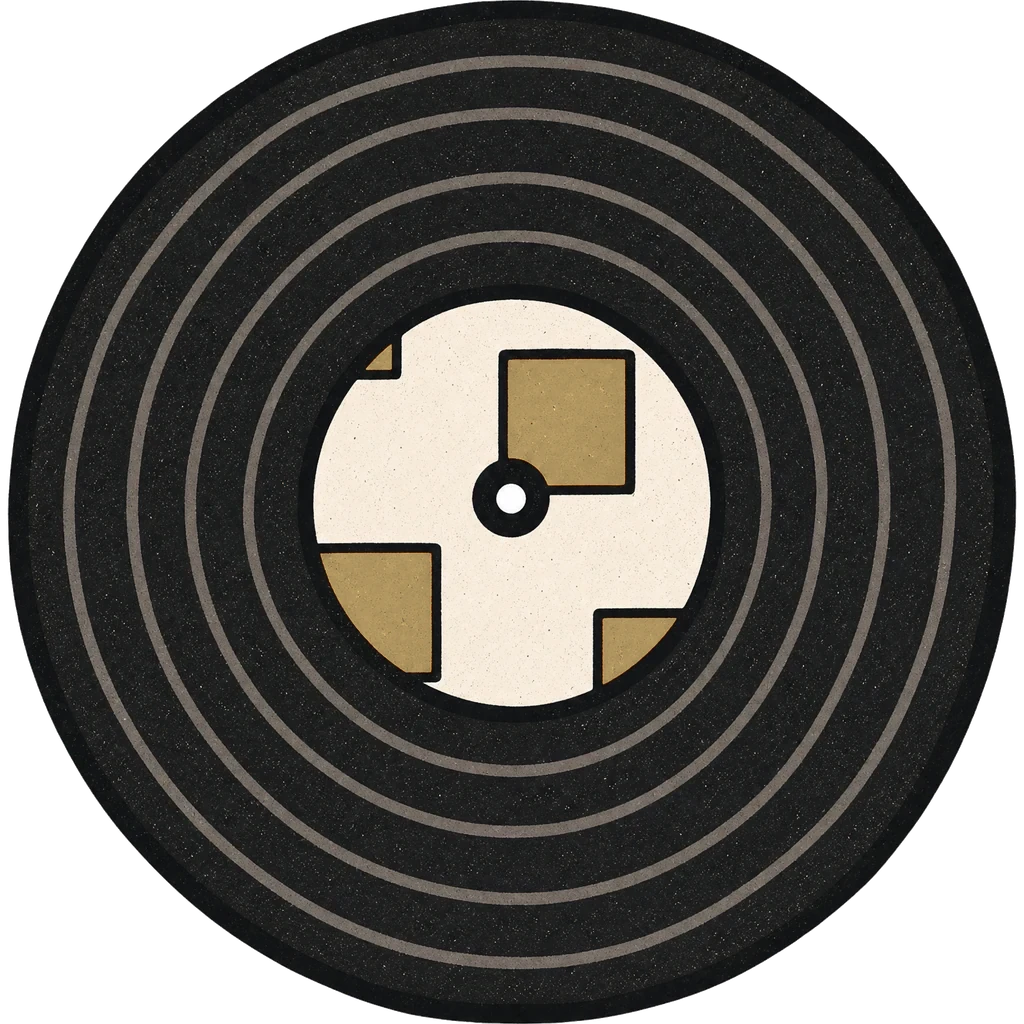
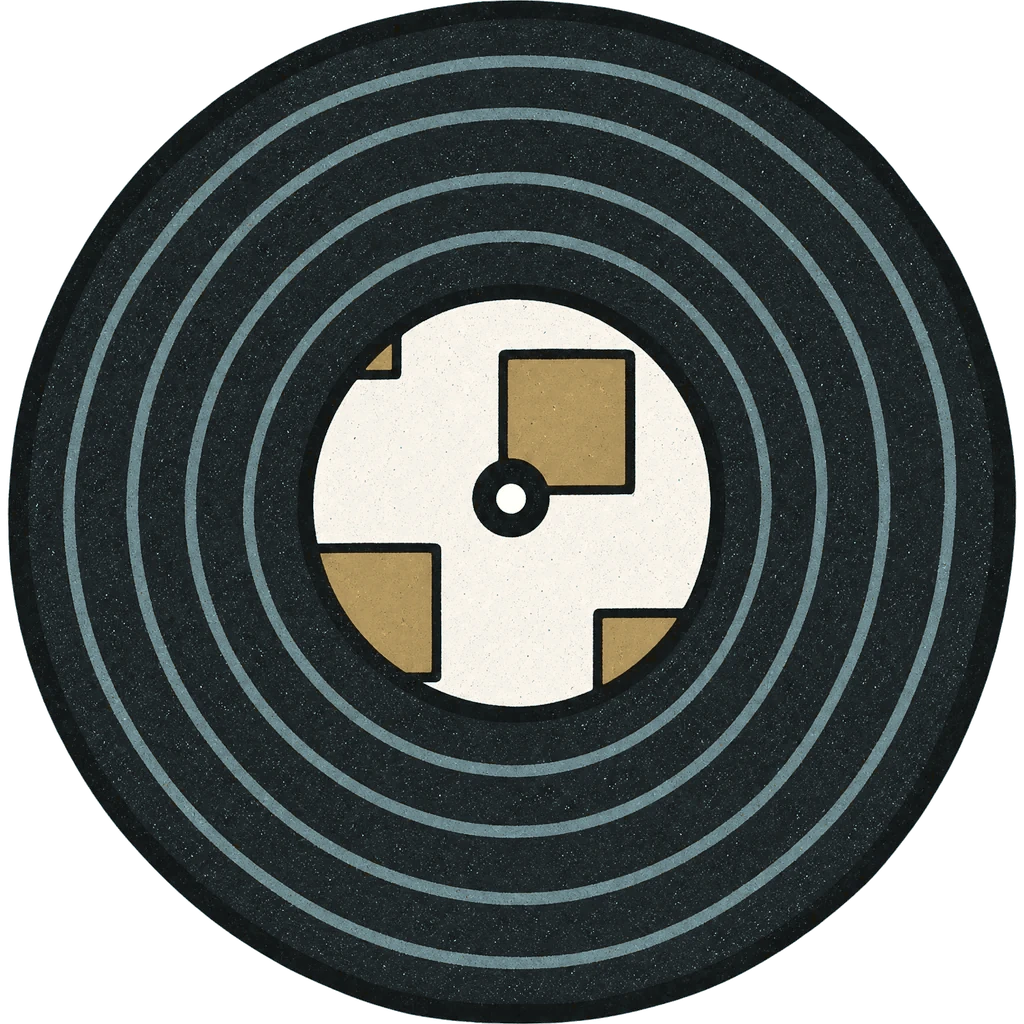
Carl's carlbahner deck on Greg's player, every drawing in Greg's colours
From carlbahner.com's deck (src/props.mjs there):
- the deck drawing without the thick shadow along its bottom and right,
  and with a thinner outline (carlbahner's deck-plinth), now in slate
- play and stop as raised keys that press down while held and spring
  back; a raised knob riding a cream progress line
- the song's title over its artist, in capitals, bigger, shrinking to
  fit, blurring in once the record has landed
- keys and words sized and moved as Carl set them, the record and arm
  moved 1% to the corner and 1.5% to the front, the whole cover on the
  label
Every drawing's colours are Greg's: the record's black and the arm's ink
his charcoal, their cream his off-white, the label and arm ochre.

Claude-Session: https://claude.ai/code/session_01EmtaLy7HU6RToKMH5GCFKA

diff --git a/site/vinyl/vinyl-player.js b/site/vinyl/vinyl-player.js
@@ -4,7 +4,9 @@
    It now differs from the kit: three fixes Carl made to the record's movement on carlbahner.com (src/nav.mjs there) are
    carried over, each marked FROM CARLBAHNER below: the old record fades away on the deck rather than flying home, one
    record moves at a time, and no tap flash or touch-held hover slide on a phone ("can you look at the mechanics from
-   the Carlbahner site repo? I fixed some quirks with the vinyl movement", Carl, 10 Nov 2026). */
+   the Carlbahner site repo? I fixed some quirks with the vinyl movement", Carl, 10 Nov 2026). And his deck from there:
+   raised keys that press down, a raised knob, the title and artist on two lines in capitals that blur in once the record
+   lands, the record and arm moved as he moved them (GREG'S DECK, at the end of the styles). */
 /**
  * Styles for <vinyl-player>.
  *
@@ -1576,6 +1578,76 @@ button > svg:not(.boil) { width: 19px; height: 19px; fill: currentColor; }
 }
 .art-boil { translate: var(--boil-dx, 0px) var(--boil-dy, 0px); }
 @media (prefers-reduced-motion: reduce) { .art-boil { translate: none; } }
+/* ===== GREG'S DECK, AS CARL BUILT HIS ON CARLBAHNER.COM =====================================================
+   "What did we do differently in my Carlbahner site deck? The 3d buttons, the placement of words. The removal of the
+   weird shadow?", then "All of it, and we need to change the colors of any illustrations" (Carl, 10 Nov 2026). From
+   carlbahner.com's src/props.mjs: GREG'S CONTROLS, ON THE DECK; THE KEYS; THE KNOB; THE DECK'S BUTTONS AND WORDS, with
+   his saved sizes and moves (DECK_UI); DECK_MOVE; and src/nav.mjs THE WORDS WAIT FOR THE RECORD. The shadow is gone
+   from the drawing itself (vinyl/art/plinth.webp, made by tools/vinyl_art.py from carlbahner's deck). Colours come
+   from the page's --pp-* (Greg's), never StudioLand's. Only the 3D room's own parts (thickness, the post) stay there. */
+
+/* the record and the arm 1% toward the corner and 1.5% toward the front, moved as one so the arm's angles hold
+   (carlbahner DECK_MOVE: x 0.01, z 0.015) */
+:host([data-art~="plinth"]) .platter { left: 14.6%; top: 14%; }
+:host([data-art~="tonearm"]) .tonearm { translate: 1% 1.5%; }
+
+/* THE KEYS: play and stop as real keys, raised off the deck and pressed down while held, springing back up: "can the play
+   buttons have depth? and then when they're clicked they actually depress?", "do they come back up after the click is
+   released?" (Carl, 2 Nov 2026). A cream top with a charcoal line, on its side in a darker cream down to the deck. Both
+   the same size, 1.23 times the kit's, the pair 1.4% left and 0.8% up (his DECK_UI keySize, keysX, keysY). */
+:host([data-art~="plinth"]) .onDeck { left: 14.2%; top: 69.7%; bottom: auto; height: 10.5%; gap: 4.6cqi; }
+:host([data-art~="plinth"]) .controls { gap: 2.3cqi; }
+:host([data-art~="plinth"]) .controls button,
+:host([data-art~="plinth"]) .controls .play {
+  --k: clamp(26px, 8.4cqi, 54px); --side: clamp(3px, 1cqi, 7px); --pen: clamp(2px, .42cqi, 3px);
+  width: var(--k); height: var(--k); padding: 0; border-radius: 22%;
+  background: var(--pp-cream); color: var(--pp-ink); border: var(--pen) solid var(--pp-ink);
+  box-shadow: 0 var(--side) 0 0 var(--pp-key-side, #c9c2b2), 0 var(--side) 0 var(--pen) var(--pp-ink);
+  transform: translateY(0); transition: transform 70ms ease, box-shadow 70ms ease;
+}
+:host([data-art~="plinth"]) .controls button:hover:not(:disabled) { background: var(--pp-key-hover, #fbf9f4); }
+:host([data-art~="plinth"]) .controls button:active:not(:disabled),
+:host([data-art~="plinth"]) .controls button.pressed {
+  transform: translateY(calc(var(--side) * .7));
+  box-shadow: 0 calc(var(--side) * .3) 0 0 var(--pp-key-side, #c9c2b2), 0 calc(var(--side) * .3) 0 var(--pen) var(--pp-ink);
+}
+:host([data-art~="plinth"]) .controls button:disabled { background: var(--pp-panel); color: var(--pp-muted); }
+:host([data-art~="plinth"]) .controls button > svg:not(.boil) { width: 46%; height: 46%; }
+
+/* THE PROGRESS LINE: a cream track with a charcoal line round it, the played part charcoal, and THE KNOB, raised as the
+   keys are, always riding it: "can the scrubber/circle thing also have depth?" (Carl, 2 Nov 2026). It drags; it does
+   not press down ("You should be able to drag it and skip through the song but it won't depress"). */
+:host([data-art~="plinth"]) .scrub-track { height: 30%; background: var(--pp-cream); }
+:host([data-art~="plinth"]) .scrub-played { background: var(--pp-ink); }
+:host([data-art~="plinth"]) .scrub-knob {
+  --side: clamp(2px, .7cqi, 5px); --pen: clamp(2px, .42cqi, 3px);
+  width: clamp(14px, 4.6cqi, 30px); background: var(--pp-cream); border: var(--pen) solid var(--pp-ink);
+  box-shadow: 0 var(--side) 0 0 var(--pp-key-side, #c9c2b2), 0 var(--side) 0 var(--pen) var(--pp-ink);
+  transform: translate(-50%, calc(-50% - var(--side) / 2)) scale(1);
+}
+:host([data-art~="plinth"]) .scrub[aria-disabled="true"] { opacity: 1; }
+
+/* THE WORDS: the song's title on top, its artist under it, in the heading face in capitals, in the deck's cream, bigger
+   than the kit's: "it should be Top line song title, bottom line artist name", "the text on the deck needs to be bigger"
+   (Carl, 3 Nov 2026). The title 5.6% of the deck, the artist 4.2%; each line shrinks to fit (_fitWords), and only then
+   is cut short. Moved 2.2% right and 1.4% up (his DECK_UI textX, textY). His artist line is at 72%; here it is full,
+   Greg's site having nothing faded (his consistency quiz). */
+:host([data-art~="plinth"]) .np { padding-left: 2.2cqi; transform: translateY(-1.4cqi); }
+:host([data-art~="plinth"]) .np-title,
+:host([data-art~="plinth"]) .np-meta {
+  font-family: var(--pp-font); font-weight: 600; text-transform: uppercase; letter-spacing: .01em;
+  color: var(--pp-cream); white-space: nowrap; overflow: hidden; text-overflow: ellipsis; margin: 0;
+}
+:host([data-art~="plinth"]) .np-title { font-size: 5.6cqi; line-height: 1.05; }
+:host([data-art~="plinth"]) .np-meta { font-size: 4.2cqi; line-height: 1.1; margin-top: .15em; }
+
+/* THE WORDS WAIT FOR THE RECORD: off while it is on its way, and once it is down they come in out of a blur, the whole of
+   them at once: "can we make the words on the player not show up until the vinyl lands? it can fade in?", then "make the
+   fade be a blur-in not like, entering line by line" (Carl, 8 Nov 2026). */
+.np-title, .np-meta { transition: opacity 900ms ease, filter 900ms ease; }
+.np.wait .np-title, .np.wait .np-meta { opacity: 0; filter: blur(1.4cqi); transition: none; }
+@media (prefers-reduced-motion: reduce) { .np-title, .np-meta { transition: none; } }
+
 `;
 
 
@@ -1746,6 +1818,8 @@ class VinylPlayer extends HTMLElement {
 
   connectedCallback() {
     if (!this._built) this._build();
+    // the deck's words re-fit when the deck changes size (GREG'S DECK, _fitWords)
+    if (!this._fitRO) { this._fitRO = new ResizeObserver(() => this._fitWords()); this._fitRO.observe(this); }
 
     // Tracks may arrive from an attribute, an inline JSON block, or the
     // property setter having run before upgrade. Handle all three.
@@ -2029,6 +2103,7 @@ class VinylPlayer extends HTMLElement {
     }
 
     this.current = index;
+    this._wordsWait(true);
     this._updateNowPlaying(track);
     this._setStatus('');
 
@@ -2042,6 +2117,7 @@ class VinylPlayer extends HTMLElement {
     //    trip back to the crate, not after it.
     await Promise.all([leaving, this._takeRecord(index, gen, reduced)]);
     if (gen !== this._gen) return;
+    this._wordsWait(false);
     if (this._pickNext(index)) return;
 
     /* 4. THE MOTOR COMES UP TO SPEED WHILE THE ARM SWINGS OVER. These used to
@@ -2066,6 +2142,21 @@ class VinylPlayer extends HTMLElement {
     this._next = null;
     await this._startPlayback(gen);
   }
+
+  /* EACH LINE SHRINKS TO FIT, and only then is cut short (Carl's deck: "Each line shrinks to fit, and only then is cut
+     short"), down to 60% of its size. */
+  _fitWords() {
+    for (const el of [this.el.npTitle, this.el.npMeta]) {
+      if (!el) continue;
+      el.style.fontSize = '';
+      let fs = parseFloat(getComputedStyle(el).fontSize);
+      const floor = fs * 0.6;
+      while (el.scrollWidth > el.clientWidth + 1 && fs > floor) { fs *= 0.94; el.style.fontSize = fs + 'px'; }
+    }
+  }
+
+  /* THE WORDS WAIT FOR THE RECORD: off while it travels, in once it is down (GREG'S DECK, above). */
+  _wordsWait(on) { this.el.npTitle?.parentElement?.classList.toggle('wait', on); }
 
   /* Another sleeve was picked while this record was on its way: that one now, this one off the deck. */
   _pickNext(index) {
@@ -2628,8 +2719,10 @@ class VinylPlayer extends HTMLElement {
 
   _updateNowPlaying(track) {
     this.el.npTitle.textContent = track.title;
-    this.el.npMeta.textContent = [track.artist, track.role, track.year]
-      .filter(Boolean).join(' · ') || 'On the deck';
+    // the artist alone under the title, as on Carl's deck (GREG'S DECK, above)
+    this.el.npMeta.textContent = this.hasAttribute('data-art') ? (track.artist || '')
+      : [track.artist, track.role, track.year].filter(Boolean).join(' · ') || 'On the deck';
+    this._fitWords();
     this.el.played.style.width = '0%';
     this.el.knob.style.left = '0%';
 

diff --git a/site/index.html b/site/index.html
@@ -220,6 +220,11 @@ vinyl-player {
   --pp-accent: var(--slate); --pp-teal: var(--slate); --pp-plinth-1: var(--slate); --pp-plinth-2: var(--slate);
   --pp-mustard: var(--ochre); --pp-mint: var(--dusty); --pp-vinyl-1: var(--char); --pp-vinyl-2: var(--char);
   --pp-radius: 0px;
+  /* the whole cover on the label, as on Carl's deck ("shrink the scale of the image that is used for the center of the
+     vinyl", carlbahner LABEL_ZOOM), not the kit's zoomed middle */
+  --pp-label-zoom: 1;
+  /* the keys' and the knob's sides, a darker off-white; a key under the mouse, a lighter one (GREG'S DECK) */
+  --pp-key-side: #cfc6b4; --pp-key-hover: #fbf9f4;
 }
 /* The song keeps you company: a small player at the foot of the screen once the big one is out of sight. */
 .mini { position: fixed; left: 50%; bottom: calc(16px + env(safe-area-inset-bottom, 0px)); z-index: 30;

diff --git a/tools/vinyl_art.py b/tools/vinyl_art.py
@@ -1,30 +1,45 @@
-"""Makes Greg's versions of the record player's four drawings (site/vinyl/art/) from Carl's in studiolandmgmt-site:
+"""Makes Greg's versions of the record player's four drawings (site/vinyl/art/) from Carl's:
 
-    python3 tools/vinyl_art.py ../studiolandmgmt-site/portfolio-player-kit/art site/img/mark.svg
+    python3 tools/vinyl_art.py ../studiolandmgmt-site/portfolio-player-kit/art <carlbahner deck-plinth.webp> site/img/mark.svg
 
-Carl's teal plinth goes to Greg's slate; the record label's orange squares and the tonearm's yellow go to his ochre,
-each keeping the drawing's own shading; the platter becomes a deep slate disc with Greg's mark faint on it, where the
-STUDIOLAND MGMT watermark was ("different images instead of my Slmgmt branded art", Carl, 10 Nov 2026).
+Every colour in them is Greg's (Carl, 10 Nov 2026: "we need to change the colors of any illustrations"), each pixel
+keeping the drawing's own shading: Carl's cream becomes Greg's off-white (#f2eee5), his ink and the black of the record
+become Greg's charcoal (#2c3739, lighter or darker as drawn), the deck becomes slate (#4a6777), the label's squares and
+the tonearm's yellow ochre (#af945f).
+
+The deck comes from carlbahner.com's (its assets/deck-plinth.webp, in its wood): the kit's drawing with the thick charcoal
+shadow along its bottom and right edges taken off and a thinner outline ("The removal of the weird shadow?", Carl,
+10 Nov 2026). The platter is a deep slate disc with Greg's mark faint on it, where the STUDIOLAND MGMT watermark was.
 Needs Pillow, numpy, and Node with Playwright (to draw the mark)."""
-import json, pathlib, subprocess, sys, tempfile
+import colorsys, json, pathlib, subprocess, sys, tempfile
 import numpy as np
 from PIL import Image, ImageDraw
 
-src, mark_svg = pathlib.Path(sys.argv[1]), pathlib.Path(sys.argv[2])
+kit, cb_plinth, mark_svg = pathlib.Path(sys.argv[1]), pathlib.Path(sys.argv[2]), pathlib.Path(sys.argv[3])
 out = pathlib.Path(__file__).resolve().parent.parent / "site/vinyl/art"; out.mkdir(parents=True, exist_ok=True)
-L = lambda c: .299 * c[0] + .587 * c[1] + .114 * c[2]
+PAPER, CHAR, SLATE, OCHRE = (0xf2, 0xee, 0xe5), (0x2c, 0x37, 0x39), (0x4a, 0x67, 0x77), (0xaf, 0x94, 0x5f)
+lum = lambda c: .299 * c[..., 0] + .587 * c[..., 1] + .114 * c[..., 2]
 
-def tint(name, test, target, from_colour):
-    a = np.array(Image.open(src / f"{name}.webp").convert("RGBA")).astype(float)
-    rgb = a[:, :, :3]; pick = test(rgb) & (a[:, :, 3] > 0)
-    lum = (rgb * [.299, .587, .114]).sum(2, keepdims=True)
-    rgb[pick] = np.clip(np.array(target, float) * lum / L(from_colour), 0, 255)[pick]
-    Image.fromarray(a.astype("uint8"), "RGBA").save(out / f"{name}.webp", quality=90)
+def recolour(src, dst, warm, warm_from):
+    """Neutral light pixels to paper, neutral dark ones to charcoal, warm ones (orange, wood, yellow) to `warm`; each
+    scaled by its brightness against the colour it was drawn in, so the drawing's shading and grain stay."""
+    a = np.array(Image.open(src).convert("RGBA")).astype(float)
+    rgb = a[..., :3]; L = lum(rgb)
+    mx, mn = rgb.max(-1), rgb.min(-1); sat = np.where(mx > 0, (mx - mn) / np.maximum(mx, 1), 0)
+    cream = (sat < .22) & (L > 165)
+    dark = (sat < .22) & ~cream
+    hot = sat >= .22
+    def paint(mask, to, ref):
+        rgb[mask] = np.clip(np.array(to, float) * (L[mask] / ref)[:, None], 0, 255)
+    paint(cream, PAPER, lum(np.array([238., 232, 214])))
+    paint(dark, CHAR, lum(np.array([44., 44, 42])))
+    paint(hot, warm, lum(np.array(warm_from, float)))
+    a[..., :3] = rgb
+    Image.fromarray(a.astype("uint8"), "RGBA").save(out / dst, quality=90)
 
-tint("plinth", lambda c: (c[:, :, 2] > c[:, :, 0] + 12) & (c[:, :, 1] > c[:, :, 0] + 8), (0x4a, 0x67, 0x77), (0x3a, 0x61, 0x68))
-tint("record", lambda c: (c[:, :, 0] > 150) & (c[:, :, 0] > c[:, :, 2] + 80), (0xaf, 0x94, 0x5f), (210, 112, 40))
-tint("tonearm", lambda c: (c[:, :, 0] > 180) & (c[:, :, 1] > 140) & (c[:, :, 2] < 150) & (c[:, :, 0] > c[:, :, 2] + 60),
-     (0xc8, 0xae, 0x78), (236, 194, 98))
+recolour(cb_plinth, "plinth.webp", SLATE, (178, 104, 46))          # carlbahner's wood deck, no shadow
+recolour(kit / "record.webp", "record.webp", OCHRE, (210, 112, 40))  # the label's orange squares
+recolour(kit / "tonearm.webp", "tonearm.webp", (0xc8, 0xae, 0x78), (236, 194, 98))  # the yellow
 
 svg = mark_svg.read_text().replace('fill="currentColor"', 'fill="#fff"').replace("<svg", '<svg style="width:400px"', 1)
 with tempfile.TemporaryDirectory() as tmp:

diff --git a/CLAUDE.md b/CLAUDE.md
@@ -59,9 +59,16 @@ relative so the same page works there; its form only says it is a preview.
   no tap flash and no hover slide ("can you look at the mechanics from the Carlbahner site repo? I fixed some quirks
   with the vinyl movement", Carl, 10 Nov 2026). The kit and his MGMT pages don't have them yet. Never put `.rise` (or
   any transform) on the player or round it: it shifts the flight layer and every record in the air is drawn off its
-  path. Its four drawings are Greg's versions of Carl's,
-  `site/vinyl/art/`, made by `tools/vinyl_art.py`: the plinth slate, the platter a deep slate disc with Greg's mark
-  where the STUDIOLAND MGMT watermark was, the label squares and tonearm ochre. Its colours and fonts (his, not
+  path. And his deck from carlbahner.com ("The 3d buttons, the placement of words. The removal of the weird shadow?",
+  then "All of it", Carl, 10 Nov 2026), GREG'S DECK at the end of the component's styles: play and stop as raised keys
+  that press down while held, a raised knob on a cream progress line, the title over the artist in capitals that blur
+  in once the record lands and shrink to fit, keys and words sized and moved as he set them, the record and arm 1% to
+  the corner and 1.5% to the front, the whole cover on the label. Its four drawings are Greg's versions of Carl's,
+  `site/vinyl/art/`, made by `tools/vinyl_art.py`, every colour Greg's ("we need to change the colors of any
+  illustrations"): the deck from carlbahner's own (`assets/deck-plinth.webp` there: no thick shadow along its bottom
+  and right, a thinner outline) in slate; the platter a deep slate disc with Greg's mark where the STUDIOLAND MGMT
+  watermark was; the record's black and the arm's ink his charcoal, their cream his off-white, the label squares and
+  the arm's yellow ochre. Its colours and fonts (his, not
   StudioLand's licensed ones) are set on `vinyl-player` in the styles. It replaced a waveform deck built the same day.
   Four songs whose masters and art came from that MGMT page; a song is one row in the JSON inside `<vinyl-player>`
   plus its MP3 in `site/audio/` (keep each under ~40 MB) and cover in `site/img/`.
